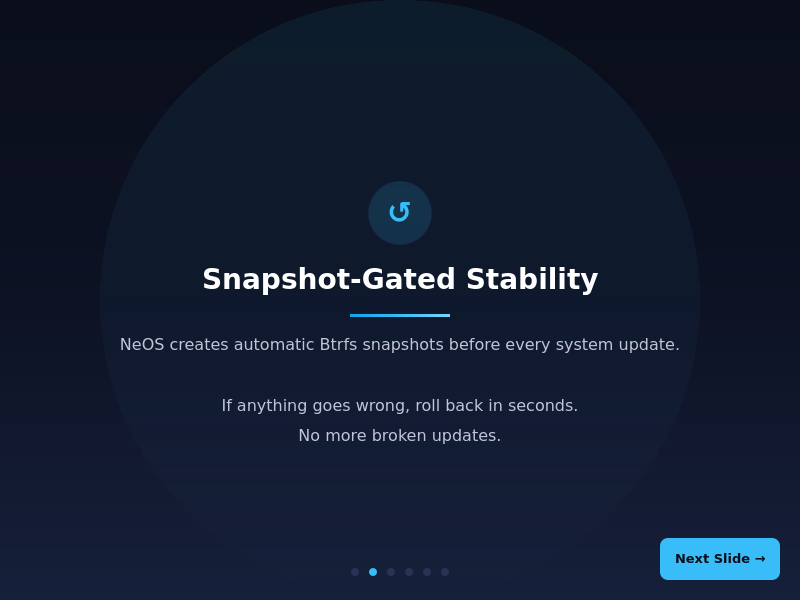
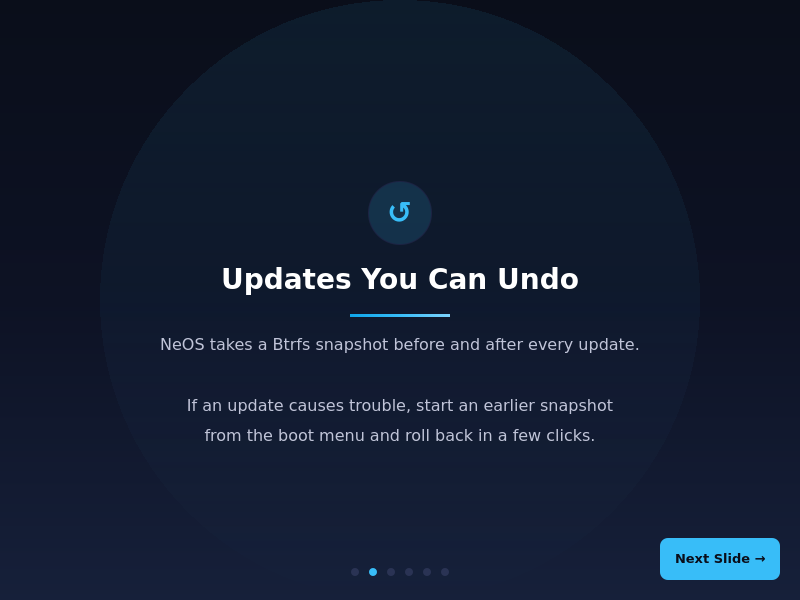
Screen Reader boot starts Orca; installer slideshow without overclaims
- neos-accessibility --session, autostarted in the Plasma session, turns on
  Plasma's screen reader (kaccessrc) and starts Orca when booted with
  accessibility=on. The boot entry only started espeakup, so the desktop was
  silent even though Orca was installed. No-op on every other boot.
  tests/verify_accessibility.sh covers both modes with stubbed tools.
- Slideshow: "Snapshot-Gated Stability ... No more broken updates" becomes
  "Updates You Can Undo"; "optimized I/O scheduling" (not done) becomes the
  real disk-write tuning; drivers are "preinstalled". README screenshot
  re-rendered.

Claude-Session: https://claude.ai/code/session_01FXnsgEPVjVr62jLKoyw3Kn

diff --git a/profile/airootfs/etc/calamares/branding/neos/show.qml b/profile/airootfs/etc/calamares/branding/neos/show.qml
@@ -169,7 +169,7 @@ Presentation {
 
                 Text {
                     anchors.horizontalCenter: parent.horizontalCenter
-                    text: qsTr("Snapshot-Gated Stability")
+                    text: qsTr("Updates You Can Undo")
                     font.pixelSize: 28; font.bold: true; color: presentation.cTitle
                     Accessible.role: Accessible.StaticText; Accessible.name: text
                 }
@@ -177,7 +177,7 @@ Presentation {
 
                 Text {
                     anchors.horizontalCenter: parent.horizontalCenter
-                    text: qsTr("NeOS creates automatic Btrfs snapshots before every system update.\n\nIf anything goes wrong, roll back in seconds.\nNo more broken updates.")
+                    text: qsTr("NeOS takes a Btrfs snapshot before and after every update.\n\nIf an update causes trouble, start an earlier snapshot\nfrom the boot menu and roll back in a few clicks.")
                     font.pixelSize: 16; color: presentation.cBody; horizontalAlignment: Text.AlignHCenter
                     wrapMode: Text.WordWrap; width: parent.width; lineHeight: 1.6
                     Accessible.role: Accessible.StaticText; Accessible.name: text
@@ -220,7 +220,7 @@ Presentation {
                         model: [
                             qsTr("ZRAM swap compression keeps your system responsive"),
                             qsTr("BBR congestion control for faster networking"),
-                            qsTr("Optimized I/O scheduling reduces lag on any hardware")
+                            qsTr("Smaller, steadier disk writes avoid stalls on slow drives")
                         ]
                         Rectangle {
                             width: parent.width; height: 36; radius: 8
@@ -318,7 +318,7 @@ Presentation {
 
                 Text {
                     anchors.horizontalCenter: parent.horizontalCenter
-                    text: qsTr("NeOS automatically detects your GPU, network, and peripherals.\nNVIDIA, AMD, and Intel drivers configured at first boot.\n\nWorks on real hardware and virtual machines alike.")
+                    text: qsTr("NeOS detects your GPU, network and peripherals.\nNVIDIA, AMD and Intel graphics drivers come preinstalled.\n\nWorks on real hardware and virtual machines alike.")
                     font.pixelSize: 16; color: presentation.cBody; horizontalAlignment: Text.AlignHCenter
                     wrapMode: Text.WordWrap; width: parent.width; lineHeight: 1.6
                     Accessible.role: Accessible.StaticText; Accessible.name: text

diff --git a/CHANGELOG.md b/CHANGELOG.md
@@ -18,6 +18,8 @@ are in `reports/v2026.10.03/website-alignment.md`.
 - **Snapshots are bootable from the GRUB menu** on installed systems, as the manual promises: `grub-btrfs` is installed, `grub-btrfsd` keeps a **NeOS snapshots** submenu current, and a `grub-btrfs-overlayfs` initramfs hook gives a booted read-only snapshot a temporary writable layer so it reaches the desktop. TROUBLESHOOTING documents both recovery paths.
 - **Installed systems now get NeOS's GRUB settings.** Calamares' `grubcfg` ran with `overwrite: true` and no defaults, so it replaced the shipped `/etc/default/grub` with three lines: no boot-menu theme, no NeOS kernel parameters, and os-prober silently off (GRUB 2.06+ needs `GRUB_DISABLE_OS_PROBER=false`), so **Windows was missing from the boot menu on dual-boot installs**. It now edits the file in place; the timeout is 3 s so the menu and the snapshot submenu can be reached when recovering. Guarded by `verify_grub_config.sh`.
 - **Wayland by default, with an automatic X11 fallback** (maintainer's decision). The new `neos-session-select.service` picks the session before SDDM starts, on the live image and installed systems: Plasma on Wayland (with a Wayland login screen on `kwin_wayland`) for Intel, AMD and proprietary NVIDIA graphics; X11 in virtual machines (KWin on Wayland stops servicing input on software rendering), with `nomodeset` / Safe Graphics (no KMS device) and on other drivers such as nouveau, where the live session used to hang. Override with `SESSION=` in `/etc/neos/session.conf` or `neos.session=` on the kernel command line; a session picked on the login screen is remembered. The static SDDM files stay on X11 as the safe floor if the service does not run. `neos-display-sync` steps aside on Wayland, where KWin handles rotation and scaling itself. Covered by `tests/verify_session_select.sh` (13 hardware/override cases).
+- **The Screen Reader boot entry now makes the desktop speak.** It only started espeakup, which speaks the text consoles, so a blind user arrived at a silent Plasma desktop although Orca was installed. `neos-accessibility --session` (autostarted in the Plasma session) now turns on Plasma's screen-reader setting and starts Orca when the system was booted with `accessibility=on`; on any other boot it does nothing. Covered by `tests/verify_accessibility.sh`.
+- **Installer slideshow without overclaims:** "Snapshot-Gated Stability … No more broken updates" is now "Updates You Can Undo" (snapshots before and after every update, roll back from the boot menu); "optimized I/O scheduling", which NeOS does not do, is replaced by its real disk-write tuning; drivers are described as preinstalled.
 - **Release naming matches the website.** `os-release` reads `PRETTY_NAME="NeOS 2026.10 (Beta)"`; CI inserts the build codename (e.g. `NeOS 2026.10 (Marlin Beta)`) and sets `VERSION_CODENAME`, and stamps the same name into the installer's window and welcome page.
 - **The Operations Hub no longer claims a "Stable" channel fed by staging deployments**; it says what is true: the Beta channel, straight from the Arch repositories, protected by snapshots.
 - **README rewritten for the public:** the website's positioning, an accurate feature list (network install for published ISOs, the real tools), requirements and verification steps. Removed: credits for projects and personas the OS does not use (ALCI, NeoCortex, "Sovereign Core", an AI persona), "Zen kernels" (NeOS ships `linux-lts`) and a named QA lead.
@@ -51,7 +53,7 @@ are in `reports/v2026.10.03/website-alignment.md`.
 - **The "send anonymous usage data" checkbox** in the welcome app: nothing ever collected or sent data.
 
 ### Tests and tooling
-- New: `verify_session_select.sh`, `verify_rollback.sh`, `verify_desktop_entries.sh`, `verify_package_hygiene.sh`, and `verify_ui_render.sh` (headless renders of the login theme, slideshow and welcome app; CI installs `python-pyqt6` + `qt6-declarative`).
+- New: `verify_accessibility.sh`, `verify_session_select.sh`, `verify_rollback.sh`, `verify_desktop_entries.sh`, `verify_package_hygiene.sh`, and `verify_ui_render.sh` (headless renders of the login theme, slideshow and welcome app; CI installs `python-pyqt6` + `qt6-declarative`).
 - `verify_palette_consistency.sh` and `verify_boot_gui.sh` are extended. `verify_installer_secrets.sh` is retired along with the installer it covered.
 - New generators: `tools/gen-brand-images.py`, `tools/render-sddm-preview.py`, `tools/render-installer-slides.py`. `tools/gen-logo.py --all` renders every logo copy from `tools/brand/neos-logo.svg`.
 - Version bumped to `2026.10.03`.

diff --git a/README.md b/README.md
@@ -96,8 +96,8 @@ online during installation. An ISO you build yourself with `sudo ./build.sh` emb
 offline package repository and installs without a connection.
 
 The boot menu also offers **Copy to RAM**, **Safe Graphics** (for GPUs that show a
-black screen) and **Screen Reader**, which turns on speech output (espeakup) from
-boot.
+black screen) and **Screen Reader**, which starts with speech on: espeakup on the
+text consoles and the Orca screen reader on the desktop.
 Unattended installs are covered in [Assisted install](docs/user-guide/AUTOINSTALL.md).
 
 ## After installing

diff --git a/reports/v2026.10.03/website-alignment.md b/reports/v2026.10.03/website-alignment.md
@@ -118,6 +118,8 @@ none of these are fixed by editing the OS alone.
   entry is chosen, and does nothing otherwise.
 - **Proposed:** *"Choose **NeOS (Screen Reader)** in the boot menu to start with speech
   output enabled."*
+- **Update (2026-10-03):** the OS now also starts Orca in the desktop session on that
+  boot, so "accessibility defaults" is closer to true; the website says it explicitly.
 
 ### 2.11 Welcome app (manual ch. 03)
 - **Site:** *"walks you through appearance, privacy and update choices"*.
